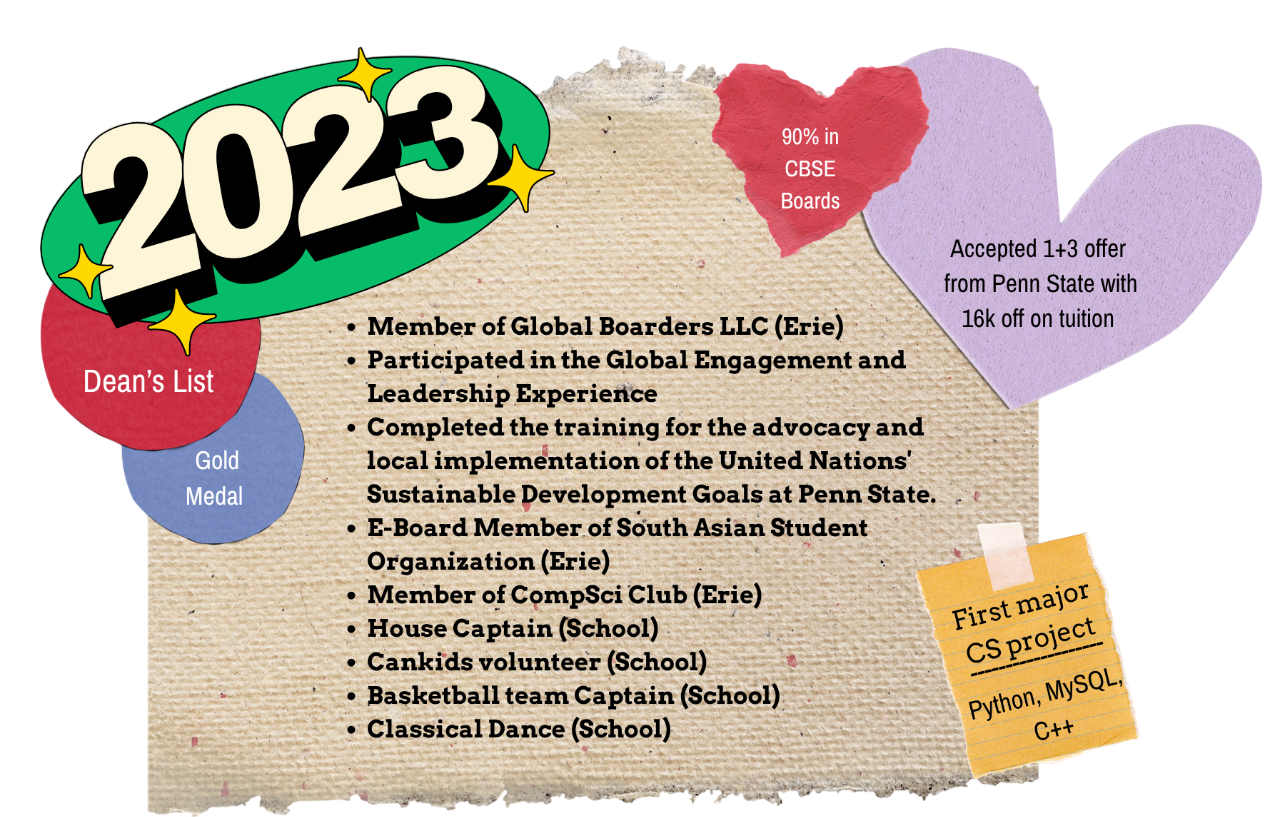
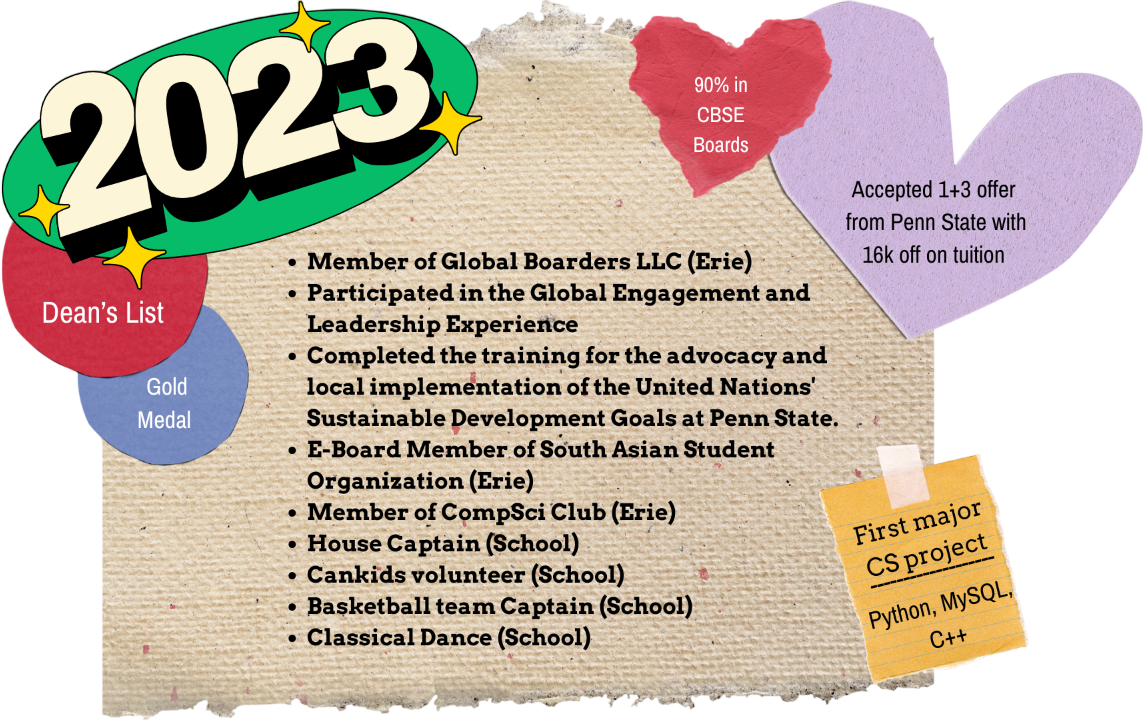
desktop perf

diff --git a/styles.css b/styles.css
@@ -4,16 +4,20 @@
   margin: 0;
   padding: 0;
 }
+.container {
+  display: flex;
+  width: 100%;
+  min-width: 1024px;
+}
 
 /* === Body and Background === */
 body {
   font-family: sans-serif;
-  background: url('assets/bg.png') no-repeat center center fixed;
+  background: url('assets/bg.jpg') no-repeat center center fixed;
   background-size: cover;
   display: flex;
   min-width: 1024px;
   overflow-x: auto;
-
 }
 
 /* === Sidebar === */
@@ -21,15 +25,21 @@ body {
   position: fixed;
   left: 45px;
   top: 0;
-  width: 33%;
+  width: 280px;
   height: 100vh;
-  background-color: rgba(255,255,255,0);
+  background: url('assets/sidebarbg.png') no-repeat center center;
+  background-size: cover;
   padding: 20px;
   display: flex;
   flex-direction: column;
   align-items: center;
   gap: 15px;
   z-index: 1000;
+}
+.sidebar-box a {
+  display: block;
+  width: fit-content;
+  margin: 0 auto;
 }
 
 .sidebar img {
@@ -41,7 +51,7 @@ body {
   display: flex;
   gap: 10px;
   margin-top: 20px;
-  margin-right: 30px;
+  margin-right: 15px;
 }
 
 .socials img {
@@ -68,7 +78,7 @@ body {
 .resume-btn {
   position: absolute;
   bottom: 18px;
-  left: 42%;
+  left: 45%;
   transform: translateX(-50%);
   background: rgba(50, 50, 50, 0.9);
   color: white;
@@ -84,20 +94,33 @@ body {
   transform: translateX(-50%) scale(1.05);
 }
 
+/* Default (Full Screen) */
 .vsco-btn {
   position: absolute;
   bottom: 50px;
-  left: 52px;
+  left: 50%;
+  transform: translateX(-50%);
+  width: 154px;
+  height: 105px;
   cursor: pointer;
+  transition: transform 0.2s ease;
+  display: block;
+  padding: 0;
+  margin: 0;
+  border: none;
+  object-fit: contain;
+  image-rendering: auto;
 }
+
 .vsco-btn:hover {
-  transform: scale(1.05);
+  transform: translateX(-50%) scale(1.05);
 }
+
 
 /* === Top Menu === */
 .top-menu {
   position: fixed;
-  top: 0px;
+  top: 0;
   right: 20px;
   z-index: 1000;
   display: flex;
@@ -124,7 +147,7 @@ body {
 
 /* === Year Blocks === */
 .year-block {
-    padding: 20px;
+  padding: 20px;
   width: 100%;
   display: flex;
   justify-content: flex-start;
@@ -138,11 +161,16 @@ body {
 }
 
 .year-block img {
-  max-width: 400px;
   width: 100%;
+  max-width: 400px;
+  height: auto;
+  transition: transform 0.3s ease, max-width 0.3s ease;
 }
 
-
+.year-block img[alt="2023"],
+.year-block img[alt="2022"] {
+  max-width: 500px;
+}
 
 /* === About Page Layout === */
 .about-layout {
@@ -160,7 +188,7 @@ body {
   background: rgba(255, 255, 255, 0.75);
   padding: 40px;
   border-radius: 12px;
-  box-shadow: 3px 3px 10px rgba(0,0,0,0.1);
+  box-shadow: 3px 3px 10px rgba(0, 0, 0, 0.1);
 }
 
 /* === Right Button Panel === */
@@ -174,7 +202,7 @@ body {
 }
 
 .tab-button {
-  width: 150px; /* Adjust this as needed */
+  width: 150px;
   cursor: pointer;
   transition: transform 0.2s ease;
 }
@@ -183,3 +211,154 @@ body {
   transform: scale(1.05);
 }
 
+/* === Media Queries === */
+@media (max-width: 1200px) {
+  .year-block img {
+    max-width: 380px;
+  }
+
+  .year-block img[alt="2023"],
+  .year-block img[alt="2022"] {
+    max-width: 440px;
+  }
+  .year-block {
+    margin: 80px 0;
+  }
+}
+
+@media (max-width: 992px) {
+  .container {
+    flex-direction: column;
+    align-items: center;
+  }
+
+  .sidebar {
+    position: relative;
+    width: 100%;
+    height: auto;
+    flex-direction: row;
+    flex-wrap: wrap;
+    justify-content: center;
+    padding: 10px;
+    background-size: cover;
+  }
+
+  .sidebar-box {
+    max-width: 200px;
+    margin: 10px;
+  }
+
+  .socials {
+    flex-direction: column;
+    align-items: center;
+    margin-top: 10px;
+    margin-right: 0;
+  }
+
+  .socials img {
+    width: 40px;
+  }
+
+  .resume-btn {
+    padding: 10px 16px;
+    font-size: 0.7rem;
+    bottom: 12px;
+  }
+
+  .vsco-btn {
+    width: 100px;
+    height: auto;
+  }
+
+  .top-menu {
+    top: 0;
+    right: 10px;
+    flex-direction: row;
+    justify-content: center;
+  }
+
+  .top-menu img {
+    width: 60px;
+    height: 35px;
+  }
+
+  .timeline {
+    margin-left: 0;
+    padding: 60px 20px;
+  }
+
+  .year-block {
+    justify-content: center !important;
+    margin: 60px 0;
+  }
+
+  .year-block img {
+    max-width: 300px;
+  }
+
+  .year-block img[alt="2023"],
+  .year-block img[alt="2022"] {
+    max-width: 360px;
+  }
+}
+
+@media (max-width: 600px) {
+  .sidebar-box {
+    max-width: 150px;
+  }
+
+  .top-menu img {
+    width: 50px;
+    height: 30px;
+  }
+
+  .year-block {
+    margin: 50px 0;
+  }
+
+  .year-block img {
+    max-width: 240px;
+  }
+
+  .year-block img[alt="2023"],
+  .year-block img[alt="2022"] {
+    max-width: 300px;
+  }
+
+  .resume-btn {
+    padding: 8px 12px;
+    font-size: 0.65rem;
+  }
+
+  .vsco-btn {
+    width: 60px;
+  }
+}
+
+@media (max-width: 1024px) {
+  .vsco-btn {
+    width: 100px;
+    height: 82px;
+  }
+}
+
+@media (max-width: 768px) {
+  .vsco-btn {
+    width: 90px;
+    height: 62px;
+  }
+}
+
+@media (max-width: 600px) {
+  .vsco-btn {
+    width: 60px;
+    height: 42px;
+  }
+}
+
+@media (max-width: 400px) {
+  .vsco-btn {
+    width: 50px;
+    height: 35px;
+  }
+}

diff --git a/index.html b/index.html
@@ -7,7 +7,7 @@
   <link rel="stylesheet" href="styles.css" />
 </head>
 <body>
-
+<div class="container">
   <aside class="sidebar">
   <div class="sidebar-box">
     <img src="assets/current.png" alt="Current Project" class="card-img" />
@@ -33,7 +33,7 @@
   <div class="sidebar-box">
     <img src="assets/misc.png" alt="Misc" class="card-img" />
     <a href="https://vsco.co/gitsika" target="_blank">
-      <img src="assets/vscobtn.png" alt="VSCO" class="vsco-btn" style="width: 154px; height: 105px;"/>
+      <img src="assets/vscobtn.png" alt="VSCO" class="vsco-btn" />
     </a>
   </div>
 
@@ -53,14 +53,14 @@
     <!-- Year Blocks -->
     <section class="year-block left" ><img src="assets/2025.png" alt="2025" style="transform: rotate(-5deg);"/></section>
     <section class="year-block right"><img src="assets/2024.png" alt="2024" /></section>
-    <section class="year-block left"><img src="assets/2023.png" alt="2023" style="max-width: 60%; transform: rotate(-5deg);" /></section>
-    <section class="year-block right"><img src="assets/2022.png" alt="2022" style="max-width: 55%; transform: rotate(4deg);" /></section>
-    <section class="year-block left"><img src="assets/2021.png" alt="2021" style="max-width: 55%; transform: rotate(10deg);" /></section>
+    <section class="year-block left"><img src="assets/2023.png" alt="2023" style=" transform: rotate(-5deg);" /></section>
+    <section class="year-block right"><img src="assets/2022.png" alt="2022" style=" transform: rotate(4deg);" /></section>
+    <section class="year-block left"><img src="assets/2021.png" alt="2021" style=" transform: rotate(10deg);" /></section>
     <section class="year-block right"><img src="assets/2020.png" alt="2020" style="transform: rotate(5deg);" /></section>
-    <section class="year-block left"><img src="assets/2019.png" alt="2019" style="transform: rotate(-5deg); max-width: -40%;" /></section>
+    <section class="year-block left"><img src="assets/2019.png" alt="2019" style="transform: rotate(-5deg);" /></section>
     <section class="year-block right"><img src="assets/2018.png" alt="2018" style="transform: rotate(7deg);" /></section>
     <section class="year-block left" ><img src="assets/2010.png" alt="2010" style="transform: rotate(-5deg);" /></section>
-
+  </div>
   </main>
 </body>
 </html>

diff --git a/about.html b/about.html
@@ -7,7 +7,7 @@
   <link rel="stylesheet" href="styles.css" />
 </head>
 <body>
-
+<div class="container">
   <!--  Sidebar (25% width) -->
 <aside class="sidebar">
   <div class="sidebar-box">
@@ -34,7 +34,7 @@
   <div class="sidebar-box">
     <img src="assets/misc.png" alt="Misc" class="card-img" />
     <a href="https://vsco.co/gitsika" target="_blank">
-      <img src="assets/vscobtn.png" alt="VSCO" class="vsco-btn" style="width: 154px; height: 105px;"/>
+      <img src="assets/vscobtn.png" alt="VSCO" class="vsco-btn" />
     </a>
   </div>
 
@@ -112,5 +112,6 @@
       }
     }
   </script>
+</div>
 </body>
 </html>
